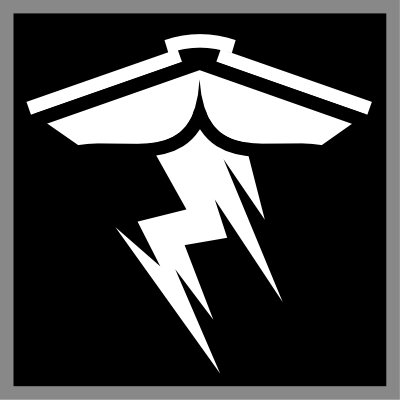
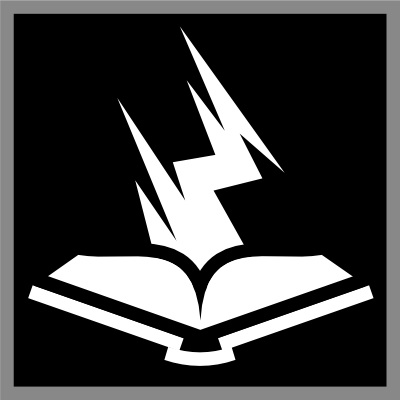
Spellbook init

Changed region(s): [[0.06, 0.06, 0.93, 0.93], [0.0, 0.99, 1.0, 1.0], [0.03, 0.03, 0.06, 0.06]]

diff --git a/source/gen/cz/ic/resurrection/heroic/R.java b/source/gen/cz/ic/resurrection/heroic/R.java
@@ -18,34 +18,39 @@ public final class R {
         public static final int b_king=0x7f020004;
         public static final int b_mage=0x7f020005;
         public static final int b_respawn=0x7f020006;
-        public static final int b_summoner=0x7f020007;
-        public static final int b_thief=0x7f020008;
-        public static final int b_wall=0x7f020009;
-        public static final int board_marble=0x7f02000a;
-        public static final int board_marble_dark=0x7f02000b;
-        public static final int board_marble_light=0x7f02000c;
-        public static final int icon=0x7f02000d;
-        public static final int w_archer=0x7f02000e;
-        public static final int w_cavalery=0x7f02000f;
-        public static final int w_cleric=0x7f020010;
-        public static final int w_infantry=0x7f020011;
-        public static final int w_king=0x7f020012;
-        public static final int w_mage=0x7f020013;
-        public static final int w_respawn=0x7f020014;
-        public static final int w_summoner=0x7f020015;
-        public static final int w_thief=0x7f020016;
-        public static final int w_wall=0x7f020017;
+        public static final int b_spellbook=0x7f020007;
+        public static final int b_summoner=0x7f020008;
+        public static final int b_thief=0x7f020009;
+        public static final int b_wall=0x7f02000a;
+        public static final int board_marble=0x7f02000b;
+        public static final int board_marble_dark=0x7f02000c;
+        public static final int board_marble_light=0x7f02000d;
+        public static final int icon=0x7f02000e;
+        public static final int w_archer=0x7f02000f;
+        public static final int w_cavalery=0x7f020010;
+        public static final int w_cleric=0x7f020011;
+        public static final int w_infantry=0x7f020012;
+        public static final int w_king=0x7f020013;
+        public static final int w_mage=0x7f020014;
+        public static final int w_respawn=0x7f020015;
+        public static final int w_spellbook=0x7f020016;
+        public static final int w_summoner=0x7f020017;
+        public static final int w_thief=0x7f020018;
+        public static final int w_wall=0x7f020019;
     }
     public static final class id {
-        public static final int game=0x7f050008;
+        public static final int game=0x7f05000b;
         public static final int level1=0x7f050001;
         public static final int level2=0x7f050002;
         public static final int level3=0x7f050003;
         public static final int level4=0x7f050004;
         public static final int level5=0x7f050005;
         public static final int level6=0x7f050006;
-        public static final int main_text=0x7f050009;
-        public static final int menu_info=0x7f050007;
+        public static final int level7=0x7f050007;
+        public static final int level8=0x7f050008;
+        public static final int level9=0x7f050009;
+        public static final int main_text=0x7f05000c;
+        public static final int menu_info=0x7f05000a;
         public static final int menu_start=0x7f050000;
     }
     public static final class layout {
@@ -53,10 +58,10 @@ public final class R {
         public static final int main=0x7f030001;
     }
     public static final class string {
-        public static final int app_name=0x7f04000b;
-        public static final int heroic_dark_wins=0x7f04000a;
-        public static final int heroic_light_wins=0x7f040009;
-        public static final int heroic_press_menu=0x7f040008;
+        public static final int app_name=0x7f04000e;
+        public static final int heroic_dark_wins=0x7f04000d;
+        public static final int heroic_light_wins=0x7f04000c;
+        public static final int heroic_press_menu=0x7f04000b;
         public static final int menu_info=0x7f040000;
         public static final int menu_level1=0x7f040002;
         public static final int menu_level2=0x7f040003;
@@ -64,6 +69,9 @@ public final class R {
         public static final int menu_level4=0x7f040005;
         public static final int menu_level5=0x7f040006;
         public static final int menu_level6=0x7f040007;
+        public static final int menu_level7=0x7f040008;
+        public static final int menu_level8=0x7f040009;
+        public static final int menu_level9=0x7f04000a;
         public static final int menu_start=0x7f040001;
     }
 }

diff --git a/source/src/cz/ic/resurrection/heroic/HeroicView.java b/source/src/cz/ic/resurrection/heroic/HeroicView.java
@@ -9,18 +9,16 @@ public class HeroicView {
 	Heroic heroic;
 	
 	BoardView boardView;
-	GameObjectView boardTop;
-	GameObjectView boardBottom;
+	HUDView boardTop;
+	HUDView boardBottom;
 
 	public HeroicView(Heroic heroic, Context context)
 	{
 		this.heroic = heroic;
 		boardView = new BoardView(context);
-		boardTop = new GameObjectView(context, R.drawable.board_marble_dark);
-		boardBottom = new GameObjectView(context, R.drawable.board_marble_light);
-		boardTop.setPos(0, 0);
+		boardTop = new HUDView(heroic, context, R.drawable.board_marble_dark, 0, 0);
+		boardBottom = new HUDView(heroic, context, R.drawable.board_marble_light, 0, boardTop.getBounds().height() + boardView.getBounds().height());
 		boardView.setPos(0, boardTop.getBounds().height());
-		boardBottom.setPos(0, boardTop.getBounds().height() + boardView.getBounds().height());
 	}
 	
 	public void draw(Canvas canvas)
@@ -32,7 +30,10 @@ public class HeroicView {
 	
 	public boolean onTouchEvent(MotionEvent event)
     {
-		return boardView.onTouchEvent(event);
+		if(heroic.getGameState() != Heroic.STATE_PLAYING)
+			return false;
+		
+		return boardView.onTouchEvent(event) || boardBottom.onTouchEvent(event);
     }
 	
 	public BoardView getBoardView()

diff --git a/source/src/cz/ic/resurrection/heroic/GameCore.java b/source/src/cz/ic/resurrection/heroic/GameCore.java
@@ -45,6 +45,15 @@ public class GameCore extends Activity {
 	            case R.id.level6:
 	                gameThread.doStart(6);
 	                return true;
+	            case R.id.level7:
+	                gameThread.doStart(7);
+	                return true;
+	            case R.id.level8:
+	                gameThread.doStart(8);
+	                return true;
+	            case R.id.level9:
+	                gameThread.doStart(9);
+	                return true;
 	        }
 
 	        return false;
@@ -113,8 +122,16 @@ public class GameCore extends Activity {
 	    protected void onSaveInstanceState(Bundle outState) {
 	        // just have the View's thread save its state into our Bundle
 	        super.onSaveInstanceState(outState);
-	        //gameThread.saveState(outState);
+	        gameThread.saveState(outState);
 	        
 	        Log.w(LOG_TAG, "SIS called");
 	    }
+	    
+	    @Override
+	    public void onRestoreInstanceState(Bundle savedInstanceState) {
+	      super.onRestoreInstanceState(savedInstanceState);
+	      Log.w(LOG_TAG, "SIS restore");
+	      gameThread.restoreState(savedInstanceState);
+	    }
+
 	}

diff --git a/source/src/cz/ic/resurrection/heroic/HUDView.java b/source/src/cz/ic/resurrection/heroic/HUDView.java
@@ -1,0 +1,40 @@
+package cz.ic.resurrection.heroic;
+
+import android.content.Context;
+import android.graphics.Canvas;
+import android.view.MotionEvent;
+
+public class HUDView extends GameObjectView {
+	Heroic heroic;
+	Context context;
+	byte color;
+	GameObjectView spellbook;
+	
+	public HUDView(Heroic heroic, Context context, int drawableID, int x, int y)
+	{
+		super(context, drawableID);
+		setPos(x, y);
+		color = (drawableID == R.drawable.board_marble_light) ? Player.LIGHT : Player.DARK;
+		int spellbookID = (color == Player.LIGHT) ? R.drawable.b_spellbook : R.drawable.w_spellbook;
+		spellbook = new GameObjectView(context, spellbookID);
+		spellbook.setPos(getBounds().right - spellbook.getImageWidth(), getBounds().top);
+		this.heroic = heroic;
+		this.context = context;
+	}
+	
+	@Override
+	public void draw(Canvas canvas) {
+		super.draw(canvas);
+		spellbook.draw(canvas);
+	}
+	
+	public boolean onTouchEvent(MotionEvent event)
+	{
+		if(spellbook.getBounds().contains((int) event.getX(), (int) event.getY()))
+		{
+			return true;
+		}
+		
+		return false;
+	}
+}

diff --git a/source/src/cz/ic/resurrection/heroic/Board.java b/source/src/cz/ic/resurrection/heroic/Board.java
@@ -1,6 +1,7 @@
 package cz.ic.resurrection.heroic;
 
 import android.content.Context;
+import android.os.Bundle;
 import cz.ic.resurrection.heroic.figure.Archer;
 import cz.ic.resurrection.heroic.figure.BoardPos;
 import cz.ic.resurrection.heroic.figure.Figure;
@@ -229,5 +230,31 @@ public class Board {
 			}
 		}
 		return null;
+	}
+
+	public void saveState(Bundle map) {
+		byte [] board1D = new byte[BOARD_WIDTH * BOARD_WIDTH];
+		for(byte loop1 = 0; loop1 < BOARD_WIDTH; loop1++)
+		{
+			for(byte loop2 = 0; loop2 < BOARD_WIDTH; loop2++)
+			{
+				board1D[loop1 * BOARD_WIDTH + loop2] = board[loop1][loop2];
+			}
+		}
+
+		map.putByteArray("board", board1D);
+		
+	}
+
+	public void restoreState(Bundle savedState) {
+		byte [] board1D = savedState.getByteArray("board");
+		for(byte loop1 = 0; loop1 < BOARD_WIDTH; loop1++)
+		{
+			for(byte loop2 = 0; loop2 < BOARD_WIDTH; loop2++)
+			{
+				board[loop1][loop2] = board1D[loop1 * BOARD_WIDTH + loop2];
+			}
+		}
+		setBoardLegal();
 	}
 }

diff --git a/source/src/cz/ic/resurrection/heroic/Heroic.java b/source/src/cz/ic/resurrection/heroic/Heroic.java
@@ -20,7 +20,7 @@ public class Heroic implements HeroicInterface {
 	Player [] player;
 	Board board;
 	BoardView boardView;
-	int activePlayer;
+	byte activePlayer;
 	Handler handler;
 	Context context;
 	int level;
@@ -104,7 +104,7 @@ public class Heroic implements HeroicInterface {
 	
 	private void nextTurn()
 	{
-		activePlayer = (activePlayer + 1) % 2;
+		activePlayer = (byte) ((activePlayer + 1) % 2);
 		player[activePlayer].TakeTurn();
 		
 		board.setNextTurn();
@@ -147,5 +147,19 @@ public class Heroic implements HeroicInterface {
 
 	public int getGameState() {
 		return state;
+	}
+
+	
+	
+	public void restoreState(Bundle savedState) {
+		state = savedState.getInt("state");
+		activePlayer = savedState.getByte("activePlayer");
+		board.restoreState(savedState);
+	}
+
+	public void saveState(Bundle map) {
+		map.putInt("state", state);
+		map.putByte("activePlayer", activePlayer);
+		board.saveState(map);
 	}
 }

diff --git a/source/src/cz/ic/resurrection/heroic/GameThread.java b/source/src/cz/ic/resurrection/heroic/GameThread.java
@@ -73,7 +73,8 @@ class GameThread extends Thread {
      * @param savedState Bundle containing the game state
      */
     public synchronized void restoreState(Bundle savedState) {
-        synchronized (surfaceHolder) {        
+        synchronized (surfaceHolder) {    
+        	heroic.restoreState(savedState);
         }
     }
 
@@ -114,7 +115,7 @@ class GameThread extends Thread {
     public Bundle saveState(Bundle map) {
         synchronized (surfaceHolder) {
             if (map != null) {
-            	// save state
+            	heroic.saveState(map);
             }
         }
         return map;

diff --git a/source/src/cz/ic/resurrection/heroic/GameObjectView.java b/source/src/cz/ic/resurrection/heroic/GameObjectView.java
@@ -27,6 +27,8 @@ public class GameObjectView {
 		imageActive.setBounds(x, y, x + imageWidth, y + imageHeight);
 	}
 	
+	public int getImageWidth() { return imageWidth;};
+	
 	public void draw(Canvas c)
 	{
 		imageActive.draw(c);
